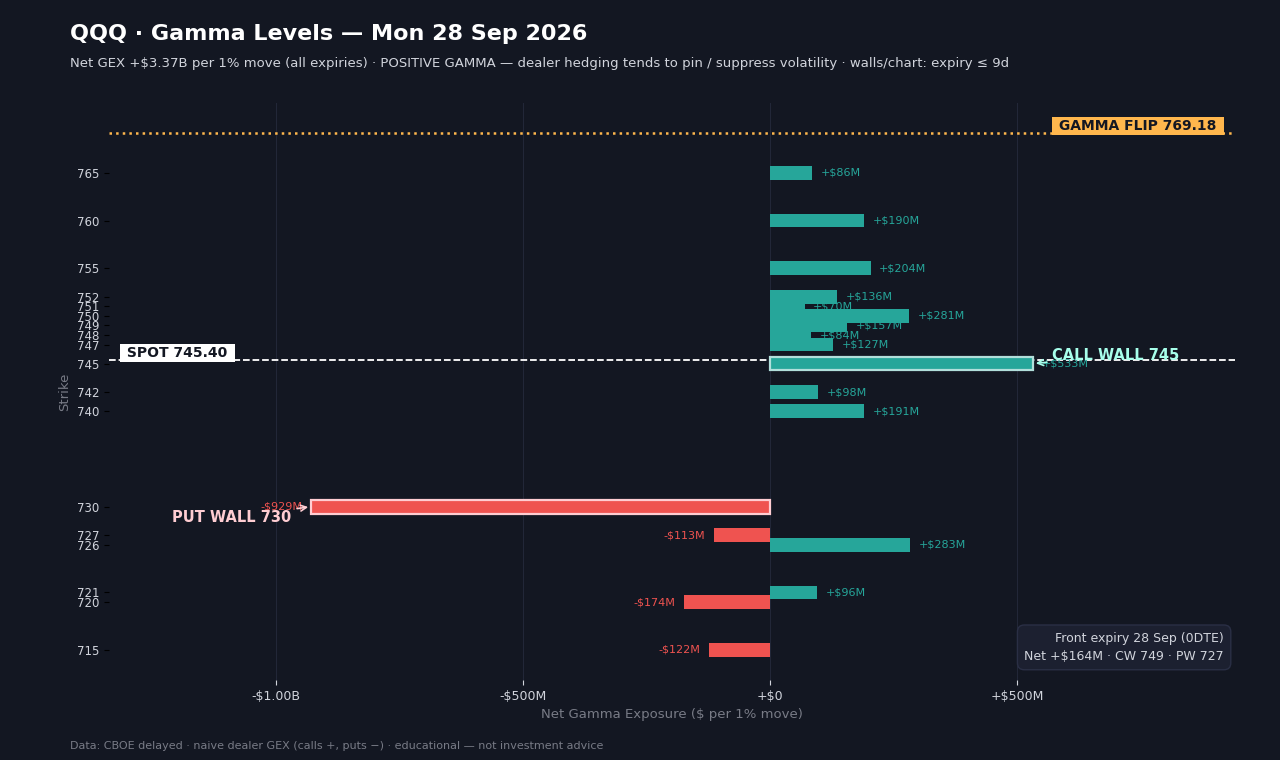
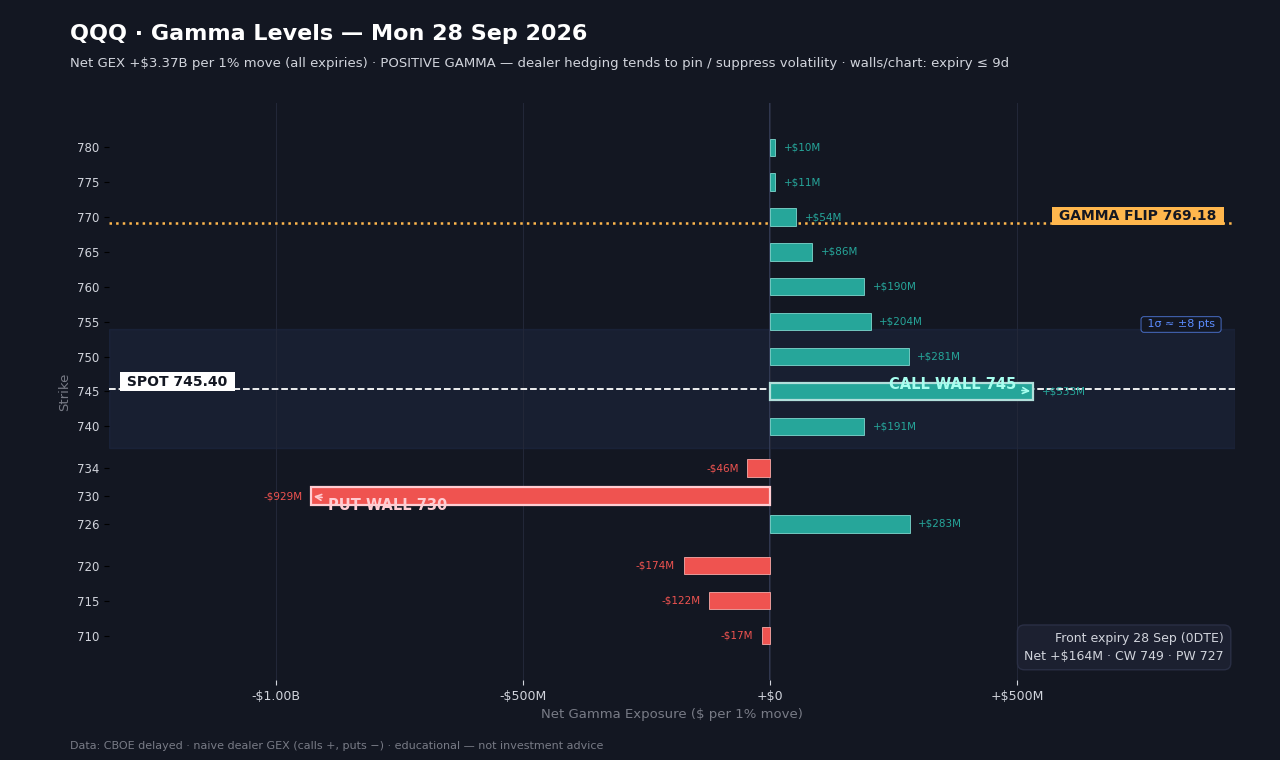
Add files via upload

diff --git a/chart.py b/chart.py
@@ -5,7 +5,10 @@ Vẽ GEX levels thành ảnh PNG (dark theme) để gửi Discord.
 Chart: bar chart ngang — net GEX theo strike quanh spot.
   - Xanh: GEX dương (call gamma trội) · Đỏ: GEX âm (put gamma trội)
   - Đường trắng đứt: SPOT · Đường cam chấm: GAMMA FLIP
+  - Dải xanh mờ: vùng biến động kỳ vọng 1σ (Rule of 16 / IV30)
   - Viền sáng + nhãn: CALL WALL / PUT WALL
+  - Tự động giãn strike: không cho 2 bar đứng sát quá → không chồng chữ
+
 Yêu cầu: pip install matplotlib
 """
 from __future__ import annotations
@@ -18,12 +21,15 @@ PANEL = "#1c2030"     # hộp thông tin
 FG = "#d1d4dc"        # chữ chính
 MUTED = "#787b86"     # chữ phụ
 GRID = "#232839"      # lưới
+ZERO = "#39415e"      # đường zero
 GREEN = "#26a69a"     # call gamma
 RED = "#ef5350"       # put gamma
 ORANGE = "#ffb74d"    # gamma flip
 WHITE = "#ffffff"
+SIGMA = "#5b8cff"     # vùng 1σ
 
-MAX_BARS = 18         # số strike hiển thị (lấy theo |GEX| lớn nhất)
+MAX_BARS = 15         # số strike hiển thị nhiều nhất
+GAP_FACTOR = 1.5      # hệ số giãn: min_gap = span / (MAX_BARS x GAP_FACTOR)
 WINDOW_PCT = 5.0      # chỉ xét strike trong ±% so với spot
 
 
@@ -45,6 +51,26 @@ def _lvl(k: float) -> str:
     return f"{k:,.0f}" if k >= 1000 else f"{k:g}"
 
 
+def pick_strikes(net: dict, spot: float) -> list[float]:
+    """Chọn strike nổi bật theo |GEX| nhưng ép giãn tối thiểu giữa 2 strike.
+
+    Tránh lỗi cluster strike sát nhau (VD SPX 7,770/7,775/7,780) vẽ đè lên nhau.
+    """
+    ks = [k for k in net if abs(k / spot - 1.0) * 100.0 <= WINDOW_PCT]
+    if not ks:
+        return []
+    span = max(ks) - min(ks) or 1.0
+    min_gap = max(span / (MAX_BARS * GAP_FACTOR), spot * 0.0005)
+    picked: list[float] = []
+    for k in sorted(ks, key=lambda k: -abs(net[k])):   # ưu tiên |GEX| lớn nhất
+        if all(abs(k - p) >= min_gap for p in picked):
+            picked.append(k)
+        if len(picked) >= MAX_BARS:
+            break
+    picked.sort()
+    return picked
+
+
 def render(sym: str, lv: dict, session_date: date, near_days: int | None = None) -> bytes:
     """Trả về bytes PNG của chart GEX cho 1 underlying."""
     import io
@@ -57,18 +83,16 @@ def render(sym: str, lv: dict, session_date: date, near_days: int | None = None)
     net, spot, flip, front = (lv["net_by_strike"], lv["spot"],
                               lv["gamma_flip"], lv["front"])
 
-    # ---- chọn strikes: trong cửa sổ quanh spot, top theo |GEX| ----
-    ks = [k for k in net if abs(k / spot - 1.0) * 100.0 <= WINDOW_PCT]
-    ks = sorted(ks, key=lambda k: abs(net[k]), reverse=True)[:MAX_BARS]
-    ks.sort()
+    # ---- chọn strikes (đã giãn) ----
+    ks = pick_strikes(net, spot)
     if not ks:
         raise ValueError("không có strike nào trong cửa sổ chart")
     vals = [net[k] for k in ks]
 
-    diffs = [b - a for a, b in zip(ks, ks[1:])] or [1.0]
-    step = sorted(diffs)[len(diffs) // 2]
-    bar_h = step * 0.72
-    pad = step * 1.6
+    gaps = [b - a for a, b in zip(ks, ks[1:])] or [1.0]
+    min_gap = min(gaps)
+    bar_h = min_gap * 0.62
+    pad = max(min_gap * 1.6, spot * 0.0012)
 
     ylo, yhi = min(ks) - pad, max(ks) + pad
     if flip is not None and abs(flip / spot - 1.0) * 100.0 <= 10.0:
@@ -79,6 +103,9 @@ def render(sym: str, lv: dict, session_date: date, near_days: int | None = None)
 
     vmin, vmax = min(vals + [0.0]), max(vals + [0.0])
     xspan = max(vmax - vmin, 1.0)
+    n = len(ks)
+    f_val = 8.0 if n <= 13 else 7.5      # cỡ chữ nhãn giá trị theo mật độ
+    f_tick = 9.0 if n <= 13 else 8.5
 
     # ---- figure ----
     fig, ax = plt.subplots(figsize=(12.8, 7.6), dpi=100)
@@ -86,17 +113,27 @@ def render(sym: str, lv: dict, session_date: date, near_days: int | None = None)
     ax.set_facecolor(BG)
     fig.subplots_adjust(left=0.085, right=0.965, top=0.865, bottom=0.105)
 
-    colors = [GREEN if v >= 0 else RED for v in vals]
-    bars = ax.barh(ks, vals, height=bar_h, color=colors, zorder=3)
+    # vùng 1σ (biến động kỳ vọng) nếu có
+    imp = lv.get("implied_move_pts")
+    if imp:
+        ax.axhspan(spot - imp, spot + imp, color=SIGMA, alpha=0.07, zorder=0)
+        ax.text(0.985, spot + imp, f" 1σ ≈ ±{imp:,.0f} pts ", transform=ax.get_yaxis_transform(),
+                ha="right", va="bottom", fontsize=8, color=SIGMA, zorder=5,
+                bbox=dict(facecolor=BG, edgecolor=SIGMA, lw=0.6,
+                          boxstyle="round,pad=0.25", alpha=0.85))
+
+    bars = ax.barh(ks, vals, height=bar_h, color=[GREEN if v >= 0 else RED for v in vals],
+                   edgecolor=["#7fd8cf" if v >= 0 else "#f8a9a7" for v in vals],
+                   linewidth=0.6, zorder=3)
 
     # nhãn giá trị đầu mỗi bar
     for k, v in zip(ks, vals):
         if v >= 0:
             ax.text(v + xspan * 0.012, k, _fmt(v), ha="left", va="center",
-                    fontsize=8, color=GREEN, zorder=4)
+                    fontsize=f_val, color=GREEN, zorder=4)
         else:
             ax.text(v - xspan * 0.012, k, _fmt(v), ha="right", va="center",
-                    fontsize=8, color=RED, zorder=4)
+                    fontsize=f_val, color=RED, zorder=4)
 
     # ---- nhấn Call Wall / Put Wall ----
     cw, pw = lv["call_wall"], lv["put_wall"]
@@ -108,22 +145,26 @@ def render(sym: str, lv: dict, session_date: date, near_days: int | None = None)
             b.set_edgecolor("#ffcdd2")
             b.set_linewidth(1.6)
     if cw in ks:
-        ax.annotate(f"CALL WALL {cw:g}", xy=(net[cw], cw),
-                    xytext=(14, 6), textcoords="offset points",
-                    ha="left", va="center", fontsize=10.5, fontweight="bold",
-                    color="#a7ffeb", zorder=6,
-                    arrowprops=dict(arrowstyle="->", color="#a7ffeb", lw=1.2))
+        v = net[cw]
+        right = v > vmax * 0.45            # bar dài → đặt nhãn bên trái để không tràn viền
+        ax.annotate(f"CALL WALL {_lvl(cw)}", xy=(v, cw),
+                    xytext=(-12 if right else 14, 5), textcoords="offset points",
+                    ha="right" if right else "left", va="center",
+                    fontsize=10.5, fontweight="bold", color="#a7ffef", zorder=6,
+                    arrowprops=dict(arrowstyle="->", color="#a7ffef", lw=1.2))
     if pw in ks:
-        ax.annotate(f"PUT WALL {pw:g}", xy=(net[pw], pw),
-                    xytext=(-14, -8), textcoords="offset points",
-                    ha="right", va="center", fontsize=10.5, fontweight="bold",
-                    color="#ffcdd2", zorder=6,
+        v = net[pw]
+        left = v < vmin * 0.45
+        ax.annotate(f"PUT WALL {_lvl(pw)}", xy=(v, pw),
+                    xytext=(12 if left else -14, -7), textcoords="offset points",
+                    ha="left" if left else "right", va="center",
+                    fontsize=10.5, fontweight="bold", color="#ffcdd2", zorder=6,
                     arrowprops=dict(arrowstyle="->", color="#ffcdd2", lw=1.2))
 
     # ---- đường SPOT ----
     if ylo < spot < yhi:
         ax.axhline(spot, color=WHITE, ls="--", lw=1.3, zorder=2)
-        ax.text(0.012, spot, f" SPOT {spot:.2f} ",
+        ax.text(0.012, spot, f" SPOT {spot:,.2f} ",
                 transform=ax.get_yaxis_transform(), va="bottom", ha="left",
                 fontsize=10, fontweight="bold", color=BG, zorder=6,
                 bbox=dict(facecolor=WHITE, edgecolor="none", pad=1.6))
@@ -131,7 +172,7 @@ def render(sym: str, lv: dict, session_date: date, near_days: int | None = None)
     # ---- đường GAMMA FLIP ----
     if flip is not None and ylo < flip < yhi:
         ax.axhline(flip, color=ORANGE, ls=":", lw=1.8, zorder=2)
-        ax.text(0.988, flip, f" GAMMA FLIP {flip:.2f} ",
+        ax.text(0.988, flip, f" GAMMA FLIP {flip:,.2f} ",
                 transform=ax.get_yaxis_transform(), va="bottom", ha="right",
                 fontsize=10, fontweight="bold", color=BG, zorder=6,
                 bbox=dict(facecolor=ORANGE, edgecolor="none", pad=1.6))
@@ -160,10 +201,11 @@ def render(sym: str, lv: dict, session_date: date, near_days: int | None = None)
                           edgecolor="#2a2f45"))
 
     # ---- trục, lưới ----
+    ax.axvline(0, color=ZERO, lw=1.1, zorder=1)
     ax.set_xlim(vmin - xspan * 0.28, vmax + xspan * 0.28)
     ax.set_ylim(ylo, yhi)
     ax.set_yticks(ks)
-    ax.set_yticklabels([_lvl(k) for k in ks], fontsize=8.5, color=FG)
+    ax.set_yticklabels([_lvl(k) for k in ks], fontsize=f_tick, color=FG)
     ax.tick_params(axis="x", labelsize=9, colors=FG)
     ax.xaxis.set_major_formatter(FuncFormatter(lambda x, _: _fmt(x)))
     ax.set_xlabel("Net Gamma Exposure ($ per 1% move)", fontsize=9.5, color=MUTED)

diff --git a/gex_bot.py b/gex_bot.py
@@ -22,6 +22,7 @@ from __future__ import annotations
 
 import argparse
 import json
+import math
 import os
 import re
 import sys
@@ -33,10 +34,9 @@ from uuid import uuid4
 from zoneinfo import ZoneInfo
 
 # ------------------------------- CẤU HÌNH -------------------------------
-SYMBOLS = ["SPX", "NDX", "QQQ", "SPY"]  # underlying cần tính GEX (SPX→ES/SPY, NDX→NQ)
+SYMBOLS = ["SPX", "QQQ", "SPY"]  # underlying cần tính GEX (SPX→ES/SPY)
 PLAN_INSTRUMENTS = {             # sinh trade plan cho symbol nào, theo instrument gì
     "SPX": "SPY / ES futures",
-    "NDX": "NQ/MNQ futures",
     "QQQ": "QQQ",
     "SPY": "SPY / ES futures",
 }
@@ -47,6 +47,7 @@ TOLERANCE_AFTER_OPEN_MIN = 30   # dung sai chạy muộn sau giờ mở cửa
 STRIKE_WINDOW_PCT = 5.0         # chart chỉ gồm strike trong ±% so với spot
 CHART_ROWS = 13                 # số dòng chart
 NEAR_EXPIRY_DAYS = 9            # walls/chart chỉ tính option hết hạn trong N ngày
+BOT_NAME = ""                   # tên bot trong Discord; "" = dùng tên & avatar của webhook
 CONTRACT_SIZE = 100             # hệ số hợp đồng option Mỹ
 # -------------------------------------------------------------------------
 
@@ -394,17 +395,20 @@ def send_discord(webhook: str, embeds: list[dict],
     files = files or []
     for i in range(0, len(embeds), 10):
         chunk = embeds[i:i + 10]
+        msg = {"embeds": chunk}
+        if BOT_NAME:
+            msg["username"] = BOT_NAME
         attach = files if i == 0 else []
         if attach:
             boundary = "----gexbot" + uuid4().hex
-            payload = json.dumps({"username": "GEX Bot", "embeds": chunk})
+            payload = json.dumps(msg)
             body = _multipart(
                 {"payload_json": payload},
                 [(f"files[{j}]", fn, blob) for j, (fn, blob) in enumerate(attach)],
                 boundary)
             ctype = f"multipart/form-data; boundary={boundary}"
         else:
-            body = json.dumps({"username": "GEX Bot", "embeds": chunk}).encode("utf-8")
+            body = json.dumps(msg).encode("utf-8")
             ctype = "application/json"
         for attempt in range(3):
             req = urllib.request.Request(
@@ -487,6 +491,16 @@ def main(argv=None) -> int:
                     "front": lv_near["front"],
                     "near_days": near_days,
                 })
+
+            # vùng 1σ cho chart: VIX/16 (SPX/SPY) hoặc IV30
+            try:
+                if vol_index and sym in ("SPX", "SPY"):
+                    lv["implied_move_pts"] = vol_index["spot"] / 16.0 / 100.0 * lv["spot"]
+                elif chain.get("iv30"):
+                    lv["implied_move_pts"] = (chain["iv30"] / 100.0
+                                              / math.sqrt(252.0) * lv["spot"])
+            except Exception:
+                pass
 
             # vẽ chart ảnh (nếu matplotlib có && không bị tắt)
             image_file = None

diff --git a/README.md b/README.md
@@ -3,7 +3,6 @@
 Bot tự chạy **mỗi ngày ~5 phút trước giờ mở cửa PHI Mỹ (9:30 ET)**, tính Gamma Exposure từ options chain thật (data CBOE delayed — miễn phí, không cần API key) rồi gửi vào **Discord**:
 
 - **SPX** (kèm **VIX spot + VIX GEX**) → bản tin phân tích định lượng cho SPY/ES
-- **NDX** → gamma levels + **trade plan cho NQ/MNQ futures**
 - **QQQ, SPY** → gamma levels + trade plan cho từng ticker
 
 **Chi phí vận hành: $0** (GitHub Actions miễn phí; bot chỉ cần `pip install matplotlib` để vẽ chart ảnh).
@@ -33,9 +32,9 @@ Mỗi underlying nhận **1 embed kèm ảnh chart** (kiểu SpotGamma, dark the
 - **[3] Cảnh báo phân kỳ giá–VIX**: tín hiệu gom put âm thầm, không FOMO
 - **[4] 3 kịch bản intraday if/then** theo regime: base case (chop/nén), downside (gãy mốc → trượt về vùng thanh khoản), upside (reclaim flip / breakout + vol crush → hút về Call Wall) — mỗi kịch bản có chiến lược tham khảo
 - **Ladder**: Put Wall → PW 0DTE → SPOT → CW 0DTE → Call Wall → Flip → OI magnet
-- **Quản trị rủi ro**: điểm invalidate, whipsaw, size theo biên độ 1σ (NQ $20/pt · MNQ $2/pt · ES $50/pt)
+- **Quản trị rủi ro**: điểm invalidate, whipsaw, size theo biên độ 1σ (ES $50/pt · MES $5/pt)
 
-Xem ví dụ thật: [`sample-report.md`](sample-report.md) · ảnh mẫu: [`gex_SPX.png`](gex_SPX.png) · [`gex_NDX.png`](gex_NDX.png) · [`gex_QQQ.png`](gex_QQQ.png) · [`gex_SPY.png`](gex_SPY.png)
+Xem ví dụ thật: [`sample-report.md`](sample-report.md) · ảnh mẫu: [`gex_SPX.png`](gex_SPX.png) · [`gex_QQQ.png`](gex_QQQ.png) · [`gex_SPY.png`](gex_SPY.png)
 
 ---
 
@@ -47,7 +46,7 @@ gex-bot/
 ├── chart.py                         # vẽ chart ảnh PNG (matplotlib, dark theme)
 ├── trade_plan.py                    # bản tin [1]–[4]: Rule of 16, VIX, DEX, kịch bản
 ├── sample-report.md                 # ví dụ báo cáo (chạy --dry-run)
-├── gex_NDX.png / gex_QQQ.png / gex_SPY.png   # ảnh chart mẫu
+├── gex_SPX.png / gex_QQQ.png / gex_SPY.png   # ảnh chart mẫu
 └── .github/workflows/gex-daily.yml  # lịch chạy tự động GitHub Actions
 ```
 
@@ -97,7 +96,7 @@ Script tự biết giờ New York (DST), tự nghỉ cuối tuần + holiday NYS
 pip install matplotlib                               # chỉ cần khi vẽ chart ảnh
 python gex_bot.py --dry-run                          # xem báo cáo + ảnh, không gửi
 DISCORD_WEBHOOK_URL="https://..." python gex_bot.py --force   # gửi ngay (text + ảnh)
-python gex_bot.py --symbols NDX QQQ TSLA             # đổi danh sách ticker
+python gex_bot.py --symbols SPX QQQ TSLA             # đổi danh sách ticker
 python gex_bot.py --max-expiry-days 5                # giới hạn expiry cho toàn bộ tính toán
 python gex_bot.py --no-image                         # chỉ gửi text, không cần matplotlib
 python gex_bot.py --out report.md                    # ghi thêm báo cáo ra file
@@ -105,7 +104,7 @@ python gex_bot.py --out report.md                    # ghi thêm báo cáo ra fi
 
 Yêu cầu: Python ≥ 3.9 + `matplotlib` (bot tự fallback về text nếu thiếu). Trên **Windows** cần thêm `pip install tzdata`.
 
-> CBOE hỗ trợ hầu hết ticker Mỹ có option (SPY, QQQ, TSLA, NVDA...) và index option **NDX/SPX** (tự thêm dấu `_` khi gọi API). Riêng **giá NQ futures** không lấy từ CME được (họ chặn scraping theo điều khoản) — dùng NDX + ghi chú basis.
+> CBOE hỗ trợ hầu hết ticker Mỹ có option (SPY, QQQ, TSLA, NVDA...) và index option **NDX/SPX** (tự thêm dấu `_` khi gọi API). Muốn levels cho NQ futures thì thêm `NDX` vào `SYMBOLS`.
 
 ---
 
@@ -115,9 +114,10 @@ Sửa các biến trong khối **CẤU HÌNH** đầu file `gex_bot.py`:
 
 | Biến | Mặc định | Ý nghĩa |
 |---|---|---|
-| `SYMBOLS` | `["SPX", "NDX", "QQQ", "SPY"]` | Danh sách underlying (SPX→ES/SPY, NDX→NQ) |
-| `PLAN_INSTRUMENTS` | NDX→NQ/MNQ, QQQ, SPY→SPY/ES | Sinh trade plan cho symbol nào; xoá bớt để tắt plan |
+| `SYMBOLS` | `["SPX", "QQQ", "SPY"]` | Danh sách underlying (SPX→ES/SPY; muốn thêm NQ thì thêm `NDX`) |
+| `PLAN_INSTRUMENTS` | SPX→SPY/ES, QQQ, SPY→SPY/ES | Sinh trade plan cho symbol nào; xoá bớt để tắt plan |
 | `NEAR_EXPIRY_DAYS` | `9` | Cửa sổ gần hạn dùng cho walls + chart (0DTE/weekly/monthly tuần hết hạn) |
+| `BOT_NAME` | `""` | Tên bot trong Discord. Để trống = dùng **tên & avatar của webhook** (đổi trực tiếp trong Discord: Server Settings → Integrations → Webhooks). Đặt tên khác nếu muốn ghi đè |
 | `MINUTES_BEFORE_OPEN` | `5` | Mục tiêu gửi trước giờ mở cửa bao nhiêu phút |
 | `TOLERANCE_BEFORE_MIN` | `15` | Chấp nhận cron chạy sớm/trễ tối đa bao nhiêu phút |
 | `STRIKE_WINDOW_PCT` | `5.0` | Chart chỉ gồm strike trong ±% so với spot |
@@ -136,7 +136,6 @@ Sửa các biến trong khối **CẤU HÌNH** đầu file `gex_bot.py`:
 - **Implied move**: VIX/16 (Rule of 16, SPX/SPY dùng VIX spot CBOE) hoặc `IV30 / √252 × spot` (1σ)
 - **DEX** (Delta Exposure): `Σ delta × OI × 100 × spot` (calls +, puts −) — DEX 0DTE là dòng tiền chủ đạo của phiên
 - **VIX GEX**: net GEX trên VIX options chain — trạng thái gamma của dealer trên chính VIX
-- **NQ futures ≈ NDX + basis** (thường +0.1% đến +0.5% tuỳ lãi suất/kỳ hạn) — các mứt NDX quy đổi gần đúng 1:1 sang NQ
 
 ## ⚠ Lưu ý & giới hạn
 

diff --git a/sample-report.md b/sample-report.md
@@ -68,74 +68,6 @@ _Tham khảo giáo dục — không phải khuyến nghị đầu tư._
 
 ---
 
-## NDX · Gamma Levels — trước phiên Mon 28/09/2026
-- Spot (close): **30608.13**
-- Gamma Flip: **30,142.99 — spot TRÊN flip 1.5%**
-- Call Wall (≤9 ngày): **30,850** (+$199.4M)
-- Put Wall (≤9 ngày): **29,500** (-$54.6M)
-- Net GEX toàn expiry: **+$4.16B / 1%** → gamma DƯƠNG — hedging của dealer thường chặn biến động (giá hay bị 'pin')
-- Front expiry 28/09 (0DTE): net +$404.3M · CW 30,850 · PW 30,470
-
-Net GEX theo strike ($ / 1% move):
-
-  29,500 │  -$54.6M ████
-  29,900 │  +$77.6M ██████
-  30,050 │  +$41.9M ███
-  30,150 │  +$57.1M █████
-  30,200 │  +$51.1M ████
-  30,250 │  +$43.0M ███
-  30,400 │ +$125.7M ██████████
-  30,700 │  +$49.1M ████  ◄ gần spot
-  30,800 │  +$63.5M █████
-  30,850 │ +$199.4M ████████████████
-  30,900 │  +$68.3M █████
-  31,000 │  +$93.5M ████████
-  31,500 │  +$43.2M ███
-
-_Data: CBOE delayed · cập nhật 2026-09-27 07:00:45_
-_Tham khảo educational — không phải khuyến nghị đầu tư._
-
-### 📋 BẢN TIN PHÂN TÍCH ĐỊNH LƯỢNG NDX — trade plan NQ/MNQ futures
-
-**[1] Biên độ dao động dự kiến hôm nay**
-- Nguồn vol: **IV30 17.4 (không có VIX spot — dùng IV30)**
-- Rule of 16: biên độ dự kiến **±0.01% ≈ ±3.3 pts**
-- Vùng biến động kỳ vọng: **[30,604.8 – 30,611.5]** (từ spot 30,608.13)
-- Vùng này chưa bao trùm hết các chốt 0DTE: Put Wall 30,470 – Call Wall 30,850
-
-**[2] VIX Regime & phòng hộ dealer**
-- VIX Regime: **17.37 — CHUẨN (15–25)**: premium trung bình — hợp bán premium (credit spread) có kiểm soát
-- Trạng thái Gamma NDX: Net GEX **+$4.16B/1%** (toàn expiry) · spot TRÊN flip 30,143 (1.52%)
-- DEX toàn expiry +$64.12B · DEX 0DTE/front +$1.35B → dòng tiền chủ đạo thiên hướng Bullish
-- Hệ quả phòng hộ: giữ trên 30,143 → dealer long gamma, mua khi giảm để neo giá; mất 30,143 → lật short gamma, buộc bán futures hedge, tạo áp lực cộng hưởng đẩy giá xuống sâu.
-
-**[3] Tương quan / phân kỳ NDX–VIX**
-- Snapshot tĩnh trước phiên nên chưa đánh giá được dòng chảy tương quan trong phiên. Cảnh báo: nếu trong phiên NDX tăng mà VIX cũng tăng (hoặc cả hai cùng giảm bất thường) → dòng tiền đang âm thầm gom put phòng hộ, rủi ro đảo chiều intraday rất cao — tuyệt đối không FOMO mua đuổi.
-
-**[4] Kịch bản intraday & cảnh báo rủi ro**
-- Mốc front (28/09, 0DTE): Spot 30,608.13 · Call Wall 30,850 · Put Wall 30,470
-- DEX toàn expiry +$64.12B · DEX 0DTE/front +$1.35B → dòng tiền chủ đạo thiên hướng Bullish
-  Kịch bản 1 (Base case — Nén giá): giá giữ trên 30,143 → dealer long gamma neo giá, giá chop/sideway rồi bò lên thử cụm GEX dương 30,850 / 30,900 / 31,000. Chiến lược tham khảo: chỉ bán put premium dưới hỗ trợ khi giá phản ứng tốt, giảm quy mô lệnh.
-  Kịch bản 2 (Downside — Gãy mốc then chốt): giá xuyên thủng dứt khoát 30,143 → dealer lật short gamma, lực bán hedge cộng hưởng với biên độ Rule of 16 đẩy giá trượt nhanh về vùng thanh khoản 29,900 / 30,400. Chiến lược tham khảo: hạn chế bắt đáy chặn đầu bò; đứng ngoài hoặc short ngắn hạn thuận dòng chảy.
-  Kịch bản 3 (Upside — Short squeeze): giá hấp thụ xong lực bán và bứt phá qua 30,850, IV giảm → dealer mua lại futures, giá hút nhanh về Call Wall 30,850; phá vỡ mốc này squeeze tiếp lên 30,900.
-
-Ladder các mứt:
-     29,500  Put Wall — hỗ trợ / magnet phía dưới
-     30,000  OI magnet — strike OI lớn nhất quanh spot — mứt 'hút' giá
-     30,143  Gamma Flip — lằn ranh regime — mức invalidate bias
-     30,470  Put Wall 0DTE — hỗ trợ của kỳ hạn front
-     30,608  SPOT — close phiên trước
-     30,850  Call Wall — kháng cự / target phía trên
-
-**Quản trị rủi ro:**
-- Bias invalidated khi giá ĐÓNG PHIÊN xuyên 30,143
-- Vào lệnh sát wall dễ whipsaw → chờ xác nhận price action
-- Size theo biên độ ±3 pts (1σ); NQ $20/pt · MNQ $2/pt · ES $50/pt
-
-_Tham khảo giáo dục — không phải khuyến nghị đầu tư._
-
----
-
 ## QQQ · Gamma Levels — trước phiên Mon 28/09/2026
 - Spot (close): **745.40**
 - Gamma Flip: **769.18 — spot DƯỚI flip 3.1%**
